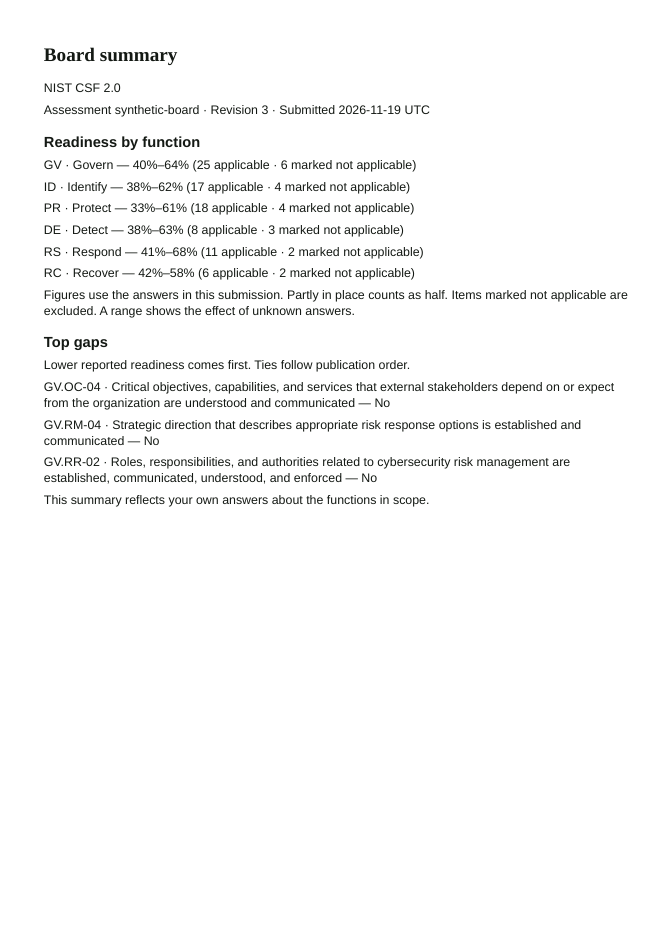
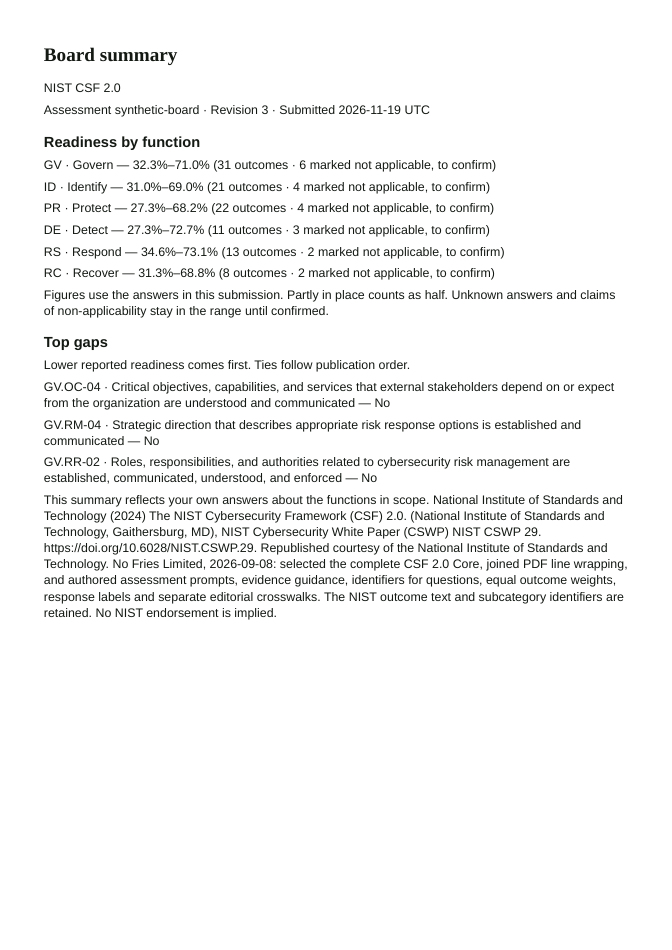
Retain unconfirmed NIST applicability claims within function ranges

Changed region(s): [[0.0625, 0.5189, 0.9375, 0.6716], [0.0625, 0.1526, 0.9375, 0.3358]]

diff --git a/api/shared/protectedAssets/paidResults.js b/api/shared/protectedAssets/paidResults.js
@@ -52,30 +52,34 @@
                     factor: option.implementationFactor, weight: question.weight, action: question.guidance.startingActions[0] };
                 groups.get(control.domainId).rows.push(row);
                 if (annex) statement.push(row);
-                if (row.applies && row.factor !== 1) gaps.push(row);
+                if ((row.applies || !iso) && row.factor !== 1) gaps.push(row);
             }
         }
         // Known gaps first, then uncertain answers. A tie stays in publication order.
         const rank = row => row.factor === null ? 2 : row.factor;
         gaps.sort((a, b) => rank(a) - rank(b));
         return { title: expected[3], iso, identity: 'Assessment ' + a.assessmentId + ' · Revision ' + a.revision + ' · Submitted ' + a.submission.submittedAt.slice(0, 10) + ' UTC',
-            groups: domains.map(groupSummary), statement, gaps: gaps.slice(0, 3) };
+            groups: domains.map(domain => groupSummary(domain, iso)), statement, gaps: gaps.slice(0, 3) };
     }
 
-    function groupSummary(domain) {
+    function groupSummary(domain, iso) {
         let weight = 0, credit = 0, unknown = 0, excluded = 0;
         for (const row of domain.rows) {
-            if (!row.applies) { excluded++; continue; }
+            if (!row.applies) {
+                excluded++;
+                if (iso) continue;
+            }
             weight += row.weight;
             if (row.factor === null) unknown += row.weight;
             else credit += row.weight * row.factor;
         }
-        const percent = value => Math.round(100 * value / weight) + '%';
+        const percent = value => (iso ? Math.round(100 * value / weight) : (100 * value / weight).toFixed(1)) + '%';
         let readiness = 'No applicable controls';
         if (weight) readiness = unknown ? percent(credit) + '–' + percent(credit + unknown) : percent(credit);
         const applicable = domain.rows.length - excluded;
         return { title: domain.id + ' · ' + domain.title, readiness,
-            detail: applicable + ' applicable · ' + excluded + ' marked not applicable' };
+            detail: iso ? applicable + ' applicable · ' + excluded + ' marked not applicable' :
+                domain.rows.length + ' outcomes · ' + excluded + ' marked not applicable, to confirm' };
     }
 
     function mount(container, { record, publication, isCurrent, authoriseExport }) {
@@ -119,7 +123,8 @@
             list.append(item);
         }
         const explanation = 'Figures use the answers in this submission. Partly in place counts as half. ' +
-            'Items marked not applicable are excluded.' + (model.iso ? '' : ' A range shows the effect of unknown answers.');
+            (model.iso ? 'Items marked not applicable are excluded.' :
+                'Unknown answers and claims of non-applicability stay in the range until confirmed.');
         board.append(list, node('p', explanation), node('h4', 'Top gaps'));
         const gapList = node('ol'), gapLines = [];
         for (const gap of model.gaps) {
@@ -133,7 +138,7 @@
             'No gaps were identified in the applicable answers.';
         board.append(node('p', gapNote), gapList);
         const limit = model.iso ? 'This summary reflects your own answers. Certification comes only from an accredited certification body.' :
-            'This summary reflects your own answers about the functions in scope.';
+            'This summary reflects your own answers about the functions in scope. ' + publication.statements.attribution;
         board.append(node('p', limit));
         panel.append(board);
 

diff --git a/test/paidResults.test.js b/test/paidResults.test.js
@@ -33,7 +33,10 @@ test.each([true, false])('sealed grouped results and explicit exports, ISO=%s', 
         expect(view.copied.mock.calls[0][0]).toContain('50% (3 applicable');
         expect(view.copied.mock.calls[1][0]).toContain(reason);
         expect(view.root.querySelector('em')).toBeNull();
-    } else expect(view.copied.mock.calls[0][0]).toMatch(/\d+%–\d+%/);
+    } else {
+        expect(view.copied.mock.calls[0][0]).toContain('GV · Govern — 32.3%–71.0% (31 outcomes · 6 marked not applicable, to confirm)');
+        expect(view.copied.mock.calls[0][0]).toContain('Republished courtesy');
+    }
 });
 
 test.each([
